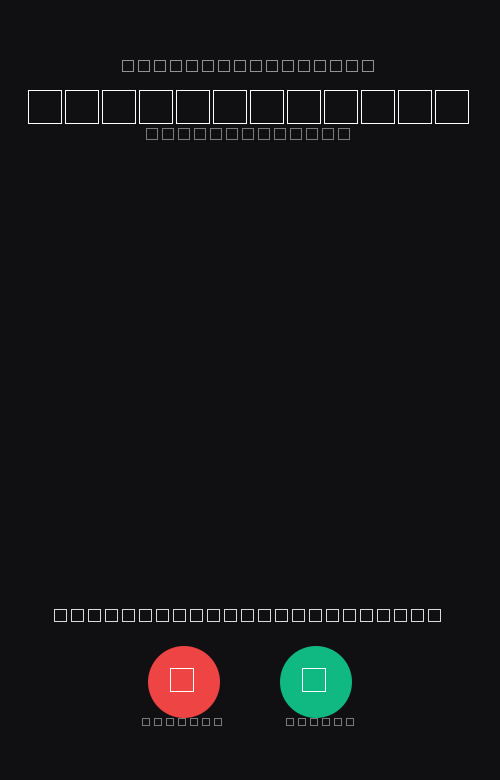
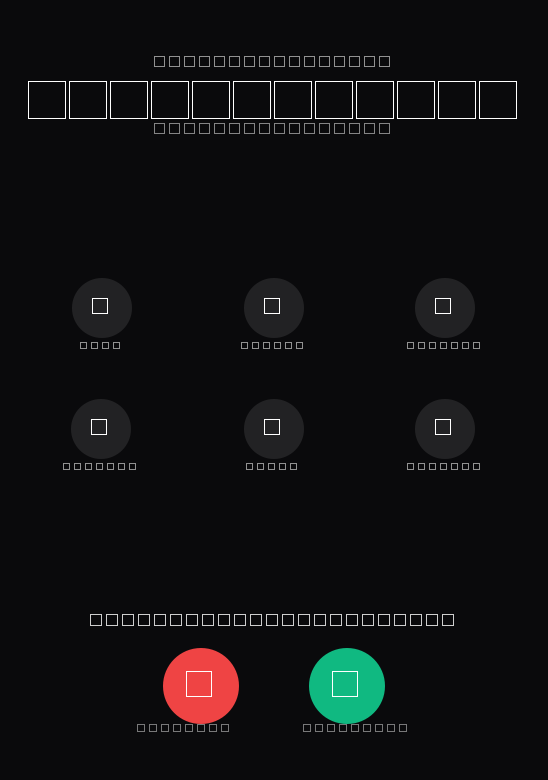
feat(ui): dark-mode dashboard + iPhone call-screen with 6 action ring + live Vosk-NL STT + start.py launcher

diff --git a/app/widgets.py b/app/widgets.py
@@ -5,99 +5,103 @@ from PySide6.QtCore import Qt, QTimer, Signal
 from PySide6.QtGui import QColor, QFont, QPainter, QPen
 from PySide6.QtWidgets import QFrame, QLabel, QPushButton, QVBoxLayout, QWidget
 
-# Palet (flat, geen gradients).
-BG_LIGHT = "#f4f5f7"      # operator-achtergrond
-BG_CARD = "#ffffff"       # cards in operator
-BG_DARK = "#101012"       # mobile-achtergrond
-TEXT = "#0a0a0c"
-TEXT_DIM = "#6b6b73"
-TEXT_INV = "#f5f5f7"
-ACCENT = "#ff8a00"        # oranje, zoals foto 3
-ACCENT_BG = "#fff1de"
+# Palet — pure dark mode, geen gradients.
+BG_DARK = "#0a0a0c"        # achtergrond beide vensters
+BG_CARD = "#16161a"        # cards
+BG_CARD_HI = "#1c1c20"     # subtiel verhoogd
+BORDER = "#26262b"
+TEXT = "#f5f5f7"
+TEXT_DIM = "#8b8b94"
+ACCENT = "#ff8a00"         # oranje accent
+ACCENT_DIM = "#3a2410"
 POS = "#10b981"
+POS_DIM = "#0b3127"
 NEG = "#ef4444"
+NEG_DIM = "#3a1414"
 WARN = "#f59e0b"
 
 STYLE = f"""
 * {{ font-family: 'Inter', 'Segoe UI Variable', 'Segoe UI', sans-serif; color: {TEXT}; }}
 
-/* Operator dashboard - light theme */
-QWidget#shell {{ background: {BG_LIGHT}; }}
-QWidget#topbar {{ background: {BG_LIGHT}; }}
+QWidget#shell {{ background: {BG_DARK}; }}
 QFrame#card {{
     background: {BG_CARD};
     border-radius: 16px;
-    border: 1px solid #e5e7eb;
+    border: 1px solid {BORDER};
 }}
-QFrame#card_dark {{
-    background: #0a0a0c;
+QFrame#card_hi {{
+    background: {BG_CARD_HI};
     border-radius: 16px;
+    border: 1px solid {BORDER};
 }}
 QFrame#card_alarm {{
-    background: {ACCENT_BG};
+    background: {ACCENT_DIM};
     border-radius: 16px;
-    border: 1px solid #fed7aa;
+    border: 1px solid {ACCENT};
 }}
-QLabel#page_title {{ font-size: 24px; font-weight: 700; color: {TEXT}; letter-spacing: -0.5px; }}
+QLabel#page_title {{ font-size: 26px; font-weight: 700; color: {TEXT}; letter-spacing: -0.5px; }}
+QLabel#page_sub   {{ font-size: 13px; color: {TEXT_DIM}; }}
 QLabel#card_title {{ font-size: 16px; font-weight: 700; color: {TEXT}; letter-spacing: -0.2px; }}
 QLabel#card_sub   {{ font-size: 12px; color: {TEXT_DIM}; }}
 QLabel#big_value  {{ font-size: 32px; font-weight: 700; color: {TEXT}; letter-spacing: -1px; }}
-QLabel#stat_label {{ font-size: 11px; color: {TEXT_DIM}; font-weight: 600; letter-spacing: 0.3px; }}
-QLabel#stat_value {{ font-size: 22px; font-weight: 700; color: {TEXT}; letter-spacing: -0.5px; }}
+QLabel#stat_label {{ font-size: 10px; color: {TEXT_DIM}; font-weight: 700; letter-spacing: 0.8px; }}
+QLabel#stat_value {{ font-size: 24px; font-weight: 700; color: {TEXT}; letter-spacing: -0.5px; }}
 QLabel#pill_active {{
-    background: {ACCENT}; color: white;
-    font-size: 11px; padding: 4px 12px; border-radius: 12px; font-weight: 700;
+    background: {ACCENT}; color: #0a0a0c;
+    font-size: 11px; padding: 4px 12px; border-radius: 12px; font-weight: 800;
 }}
 QLabel#pill_ok {{
-    background: #d1fae5; color: {POS};
+    background: {POS_DIM}; color: {POS};
     font-size: 11px; padding: 4px 10px; border-radius: 10px; font-weight: 700;
+    border: 1px solid {POS};
 }}
 QLabel#pill_off {{
-    background: #f3f4f6; color: {TEXT_DIM};
+    background: {BG_CARD_HI}; color: {TEXT_DIM};
     font-size: 11px; padding: 4px 10px; border-radius: 10px; font-weight: 700;
+    border: 1px solid {BORDER};
 }}
 QPushButton#cta_dark {{
-    background: #0a0a0c; color: white;
-    border-radius: 22px; padding: 10px 22px; font-weight: 700; font-size: 13px;
+    background: {BG_CARD_HI}; color: {TEXT};
+    border: 1px solid {BORDER}; border-radius: 22px;
+    padding: 10px 22px; font-weight: 700; font-size: 13px;
 }}
-QPushButton#cta_dark:hover {{ background: #2a2a2c; }}
+QPushButton#cta_dark:hover {{ background: {BORDER}; }}
 QPushButton#cta_accent {{
-    background: {ACCENT}; color: white;
-    border-radius: 22px; padding: 10px 22px; font-weight: 700; font-size: 13px;
+    background: {ACCENT}; color: #0a0a0c;
+    border-radius: 22px; padding: 10px 22px; font-weight: 800; font-size: 13px;
 }}
+QPushButton#cta_accent:hover {{ background: #ffa033; }}
 
-QFrame#alarm_row {{ background: white; border-radius: 12px; border: 1px solid #f1f2f4; }}
-QLabel.alarm_title {{ font-size: 14px; font-weight: 700; color: {NEG}; }}
+QLabel.alarm_title      {{ font-size: 14px; font-weight: 700; color: {NEG}; }}
 QLabel.alarm_title_warn {{ font-size: 14px; font-weight: 700; color: {WARN}; }}
-QLabel.alarm_meta {{ font-size: 11px; color: {TEXT_DIM}; }}
+QLabel.alarm_meta       {{ font-size: 11px; color: {TEXT_DIM}; }}
 
-/* Mobile - dark call-screen */
+/* Mobile - call-screen */
 QWidget#mobile {{ background: {BG_DARK}; }}
-QLabel.mob_caller  {{ color: white; font-size: 36px; font-weight: 600; letter-spacing: -1px; }}
-QLabel.mob_label   {{ color: rgba(255,255,255,0.55); font-size: 15px; font-weight: 500; }}
-QLabel.mob_status  {{ color: rgba(255,255,255,0.4); font-size: 13px; }}
-QLabel.mob_subtitle {{ color: rgba(255,255,255,0.9); font-size: 17px; font-weight: 500; }}
-
 QPushButton#mob_accept {{
-    background: {POS}; border-radius: 36px;
-    min-width: 72px; min-height: 72px; max-width: 72px; max-height: 72px;
-    font-size: 28px; color: white;
+    background: {POS}; border-radius: 38px;
+    min-width: 76px; min-height: 76px; max-width: 76px; max-height: 76px;
+    font-size: 30px; color: white;
 }}
 QPushButton#mob_decline {{
-    background: {NEG}; border-radius: 36px;
-    min-width: 72px; min-height: 72px; max-width: 72px; max-height: 72px;
-    font-size: 28px; color: white;
+    background: {NEG}; border-radius: 38px;
+    min-width: 76px; min-height: 76px; max-width: 76px; max-height: 76px;
+    font-size: 30px; color: white;
 }}
 QPushButton#mob_action {{
-    background: rgba(255,255,255,0.12); border-radius: 28px;
-    min-width: 56px; min-height: 56px; max-width: 56px; max-height: 56px;
-    color: white; font-size: 18px;
+    background: rgba(255,255,255,0.10); border-radius: 30px;
+    min-width: 60px; min-height: 60px; max-width: 60px; max-height: 60px;
+    color: white; font-size: 20px;
 }}
-QPushButton#mob_action:hover {{ background: rgba(255,255,255,0.18); }}
+QPushButton#mob_action:hover {{ background: rgba(255,255,255,0.16); }}
 
-QScrollArea, QListWidget {{ background: transparent; border: 0; }}
+QScrollArea, QListWidget {{ background: transparent; border: 0; color: {TEXT}; }}
+QListWidget {{ font-size: 13px; }}
+QListWidget::item {{ padding: 8px 10px; border-radius: 6px; }}
+QListWidget::item:hover {{ background: rgba(255,255,255,0.04); }}
 QScrollBar:vertical {{ background: transparent; width: 6px; }}
-QScrollBar::handle:vertical {{ background: rgba(0,0,0,0.15); border-radius: 3px; min-height: 30px; }}
+QScrollBar::handle:vertical {{ background: rgba(255,255,255,0.12); border-radius: 3px; min-height: 30px; }}
+QScrollBar::handle:vertical:hover {{ background: rgba(255,255,255,0.22); }}
 QScrollBar::add-line, QScrollBar::sub-line {{ height: 0; }}
 """
 
@@ -152,7 +156,7 @@ class SentimentBar(QWidget):
         p.setRenderHint(QPainter.RenderHint.Antialiasing)
         w, h = self.width(), self.height()
         p.setPen(Qt.PenStyle.NoPen)
-        p.setBrush(QColor("#e5e7eb"))
+        p.setBrush(QColor("#2a2a2f"))
         p.drawRoundedRect(0, 0, w, h, h / 2, h / 2)
         if w <= 0:
             return

diff --git a/app/ui.py b/app/ui.py
@@ -267,9 +267,12 @@ class OperatorDashboard(QWidget):
     # Audio of demo
     def _start_audio_or_demo(self) -> None:
         if VOSK_DIR.exists():
-            self.audio.transcript.connect(self._on_audio_chunk)
-            self.audio.start()
-            self.transcript_source.setText("Vosk live")
+            try:
+                self.audio.transcript.connect(self._on_audio_chunk)
+                started = self.audio.start()
+                self.transcript_source.setText("🎙  Vosk-NL live" if started else "demo (geen mic)")
+            except Exception:
+                self.transcript_source.setText("demo (audio-fail)")
         else:
             self.transcript_source.setText("demo (geen Vosk-NL)")
 
@@ -297,27 +300,33 @@ class OperatorDashboard(QWidget):
         elif sentiment == "negatief":
             self.neg_count += 1
 
-        # transcript-row
-        emoji = "🟢" if sentiment == "positief" else ("🔴" if sentiment == "negatief" else "⚪")
-        kw_str = " · ".join(k["text"] for k in kws[:3])
-        line = f"{row['time']}   {emoji}  {text}"
+        from PySide6.QtGui import QColor
+        # transcript-row met dot-emoji passend bij dark mode
+        emoji = "🟢" if sentiment == "positief" else ("🔴" if sentiment == "negatief" else "⚫")
+        kw_str = "  ".join(f"#{k['text']}" for k in kws[:3])
+        line = f" {row['time']}   {emoji}   {text}"
         if kw_str:
-            line += f"    [{kw_str}]"
+            line += f"     {kw_str}"
         item = QListWidgetItem(line)
         if sentiment == "negatief":
-            item.setForeground(Qt.GlobalColor.darkRed)
+            item.setForeground(QColor("#ff6b6b"))
+        elif sentiment == "positief":
+            item.setForeground(QColor("#34d399"))
+        else:
+            item.setForeground(QColor("#d4d4d8"))
         self.transcript_list.addItem(item)
         self.transcript_list.scrollToBottom()
 
-        # alarms
+        # alarms met medische emoji
         for kw in kws:
             if kw["type"] == "urgentie":
                 self.urgentie_count += 1
-                a = QListWidgetItem(f"⚠  {kw['text'].upper()}    {row['time']}")
-                a.setForeground(Qt.GlobalColor.red)
+                a = QListWidgetItem(f" 🚨   {kw['text'].upper()}        {row['time']}")
+                a.setForeground(QColor("#ff6b6b"))
                 self.alarm_list.addItem(a)
             elif kw["type"] == "medicatie":
-                a = QListWidgetItem(f"💊  {kw['text']}    {row['time']}")
+                a = QListWidgetItem(f" 💊   {kw['text']}        {row['time']}")
+                a.setForeground(QColor("#fbbf24"))
                 self.alarm_list.addItem(a)
         self.alarm_list.scrollToBottom()
 
@@ -339,41 +348,64 @@ class MobileCallScreen(QWidget):
 
     def _build_ui(self) -> None:
         root = QVBoxLayout(self)
-        root.setContentsMargins(28, 60, 28, 50)
+        root.setContentsMargins(28, 56, 28, 44)
         root.setSpacing(0)
 
+        # Notch-spacer
         top_label = QLabel("Inkomende oproep")
-        top_label.setProperty("class", "mob_label")
-        top_label.setStyleSheet("color: rgba(255,255,255,0.55); font-size: 16px; font-weight: 500;")
+        top_label.setStyleSheet("color: rgba(255,255,255,0.55); font-size: 15px; font-weight: 500;")
         top_label.setAlignment(Qt.AlignmentFlag.AlignCenter)
         root.addWidget(top_label)
 
-        root.addSpacing(14)
+        root.addSpacing(10)
 
         self.caller_label = QLabel("VitaCall 112")
-        self.caller_label.setStyleSheet("color: white; font-size: 38px; font-weight: 600; letter-spacing: -1px;")
+        self.caller_label.setStyleSheet("color: white; font-size: 42px; font-weight: 600; letter-spacing: -1px;")
         self.caller_label.setAlignment(Qt.AlignmentFlag.AlignCenter)
         root.addWidget(self.caller_label)
 
-        self.status_label = QLabel("alarmcentrale")
-        self.status_label.setStyleSheet("color: rgba(255,255,255,0.45); font-size: 16px;")
+        self.status_label = QLabel("🚨  alarmcentrale")
+        self.status_label.setStyleSheet("color: rgba(255,255,255,0.5); font-size: 15px; font-weight: 500;")
         self.status_label.setAlignment(Qt.AlignmentFlag.AlignCenter)
         root.addWidget(self.status_label)
 
         root.addStretch(1)
 
-        # Onderste actie-rij
-        self.subtitle = QLabel("Klik groen om te bellen")
-        self.subtitle.setStyleSheet("color: rgba(255,255,255,0.85); font-size: 17px;")
+        # In-call action ring (mute, keypad, speaker, contact, facetime, message)
+        action_grid = QGridLayout()
+        action_grid.setHorizontalSpacing(24)
+        action_grid.setVerticalSpacing(28)
+        actions = [("🎤", "Mute"), ("🔢", "Keypad"), ("🔊", "Speaker"),
+                   ("➕", "Contact"), ("📹", "Video"), ("💬", "Bericht")]
+        for i, (icon, label) in enumerate(actions):
+            btn = QPushButton(icon)
+            btn.setObjectName("mob_action")
+            lbl = QLabel(label)
+            lbl.setStyleSheet("color: rgba(255,255,255,0.55); font-size: 11px;")
+            lbl.setAlignment(Qt.AlignmentFlag.AlignCenter)
+            cell = QVBoxLayout()
+            cell.setSpacing(4)
+            cell.setAlignment(Qt.AlignmentFlag.AlignCenter)
+            cell.addWidget(btn, 0, Qt.AlignmentFlag.AlignCenter)
+            cell.addWidget(lbl)
+            wrap = QWidget()
+            wrap.setLayout(cell)
+            action_grid.addWidget(wrap, i // 3, i % 3, Qt.AlignmentFlag.AlignCenter)
+        root.addLayout(action_grid)
+
+        root.addStretch(1)
+
+        self.subtitle = QLabel("Druk groen om te bellen")
+        self.subtitle.setStyleSheet("color: rgba(255,255,255,0.8); font-size: 16px; font-weight: 500;")
         self.subtitle.setAlignment(Qt.AlignmentFlag.AlignCenter)
         root.addWidget(self.subtitle)
 
-        root.addSpacing(20)
+        root.addSpacing(18)
 
         btns = QHBoxLayout()
-        btns.setSpacing(60)
+        btns.setSpacing(70)
         btns.setAlignment(Qt.AlignmentFlag.AlignCenter)
-        self.decline_btn = QPushButton("✕")
+        self.decline_btn = QPushButton("📵")
         self.decline_btn.setObjectName("mob_decline")
         self.decline_btn.clicked.connect(self._on_decline)
         self.accept_btn = QPushButton("📞")
@@ -384,13 +416,13 @@ class MobileCallScreen(QWidget):
         root.addLayout(btns)
 
         labels = QHBoxLayout()
-        labels.setSpacing(60)
+        labels.setSpacing(70)
         labels.setAlignment(Qt.AlignmentFlag.AlignCenter)
-        dl = QLabel("Decline")
-        dl.setStyleSheet("color: rgba(255,255,255,0.45); font-size: 12px;")
+        dl = QLabel("Ophangen")
+        dl.setStyleSheet("color: rgba(255,255,255,0.45); font-size: 12px; font-weight: 500;")
         dl.setAlignment(Qt.AlignmentFlag.AlignCenter)
-        al = QLabel("Accept")
-        al.setStyleSheet("color: rgba(255,255,255,0.45); font-size: 12px;")
+        al = QLabel("Accepteer")
+        al.setStyleSheet("color: rgba(255,255,255,0.45); font-size: 12px; font-weight: 500;")
         al.setAlignment(Qt.AlignmentFlag.AlignCenter)
         labels.addWidget(dl)
         labels.addWidget(al)

diff --git a/start.py b/start.py
@@ -1,0 +1,48 @@
+"""VitaCall launcher: opent operator-dashboard + mobile call-screen in 1 commando.
+
+    python start.py
+"""
+from __future__ import annotations
+
+import subprocess
+import sys
+import time
+from pathlib import Path
+
+ROOT = Path(__file__).resolve().parent
+UI = ROOT / "app" / "ui.py"
+
+
+def main() -> None:
+    if not UI.exists():
+        print(f"FAIL: {UI} ontbreekt")
+        sys.exit(1)
+    # Verwijder oude signaling-state zodat de twee vensters fris starten.
+    (ROOT / "signaling.json").unlink(missing_ok=True)
+
+    creation = 0
+    if sys.platform == "win32":
+        creation = subprocess.CREATE_NEW_CONSOLE  # type: ignore[attr-defined]
+
+    print("==> start operator-dashboard...")
+    op = subprocess.Popen([sys.executable, str(UI)], cwd=str(ROOT), creationflags=creation)
+    time.sleep(2)  # wacht tot backend up
+    print("==> start mobile call-screen...")
+    mob = subprocess.Popen([sys.executable, str(UI), "--mobile"], cwd=str(ROOT), creationflags=creation)
+
+    print(f"\nVitaCall draait. PIDs: operator={op.pid} mobile={mob.pid}")
+    print("Sluit beide vensters om te stoppen, of Ctrl+C hier.")
+
+    try:
+        op.wait()
+        mob.wait()
+    except KeyboardInterrupt:
+        for p in (op, mob):
+            try:
+                p.terminate()
+            except OSError:
+                pass
+
+
+if __name__ == "__main__":
+    main()